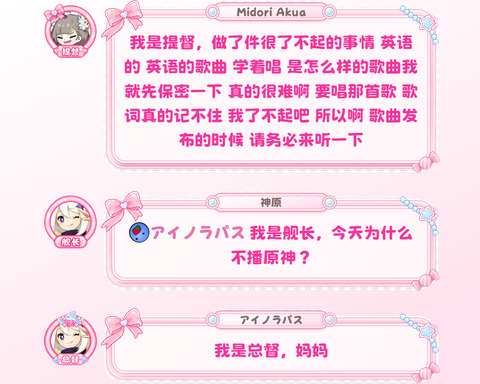
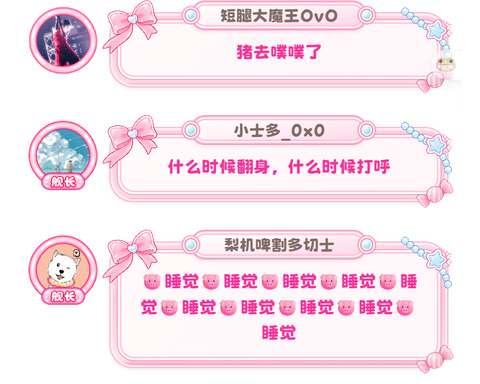
docs: 预览图更新为新版截图，@thumbnail 缩略图按新名牌样式重出

diff --git a/dudu-pink-dolphin.css b/dudu-pink-dolphin.css
@@ -2,8 +2,8 @@
   @title        海豚也是豚
   @description  粉色弹幕气泡：自适应正文框 + 顶部用户名名牌，荆南圆体，中英日字体，蝴蝶结/珠链/糖果角标，按大航海等级切换头像装饰框
   @author       JoJoWu
-  @updated      September 10, 2026, 10:35:11 PM GMT+8
-  @version      1.1.5
+  @updated      September 11, 2026, 10:25:00 AM GMT+8
+  @version      1.1.6
   @thumbnail    https://cdn.jsdelivr.net/gh/JoJoWuBeBetter/dudu-pink-dolphin@main/assets/thumbnail.jpg
 */
 

diff --git a/README.md b/README.md
@@ -117,7 +117,7 @@ https://<你的静态托管域名>/dudu-pink-dolphin.css
 .
 ├── dudu-pink-dolphin.css    # 样式主文件（相对路径版）
 └── assets/
-    ├── preview.png          # 本 README 的预览图（920×884，带透明通道）
+    ├── preview.png          # 本 README 的预览图（754×1044，带透明通道）
     ├── thumbnail.jpg        # 远程模版列表用的预览图（@thumbnail，480×384）
     ├── bow.png              # 左上蝴蝶结
     ├── necklace.png         # 右上珠链
@@ -161,6 +161,7 @@ CSS 通过顶部的 `@import` 从 [ZeoSeven Fonts](https://fonts.zeoseven.com/it
 
 | 版本 | 变更 |
 | --- | --- |
+| 1.1.6 | 预览图换成新版截图（`754×1044`，带透明通道，并裁掉底部杂边）；`@thumbnail` 缩略图按新名牌样式重出（`480×384`，白底三条弹幕） |
 | 1.1.5 | 撤销 1.1.4 的弹幕正文固定字号（移除 `--message-font-size`），正文重新跟随平台基准字号 |
 | 1.1.4 | 新增 `--message-font-size`（默认 `30px`），弹幕正文字号固定不再跟随平台基准字号（已在 1.1.5 撤销） |
 | 1.1.3 | 名牌尺寸微调：`240 × 40px`、名字字号 `22px`（正文框与头像参数不变） |
